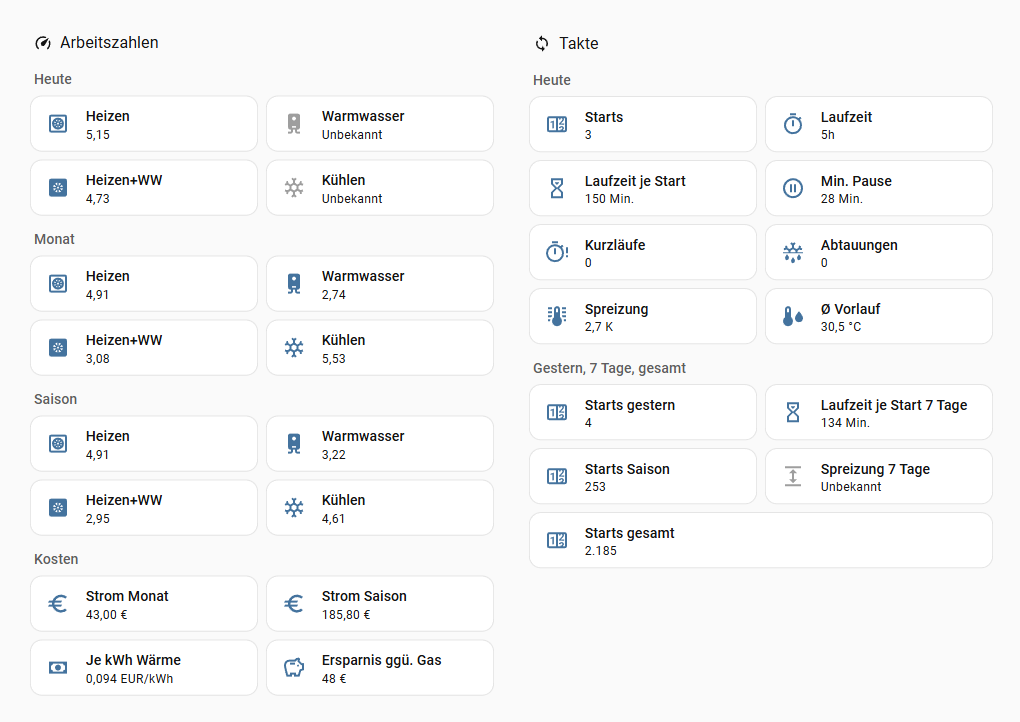
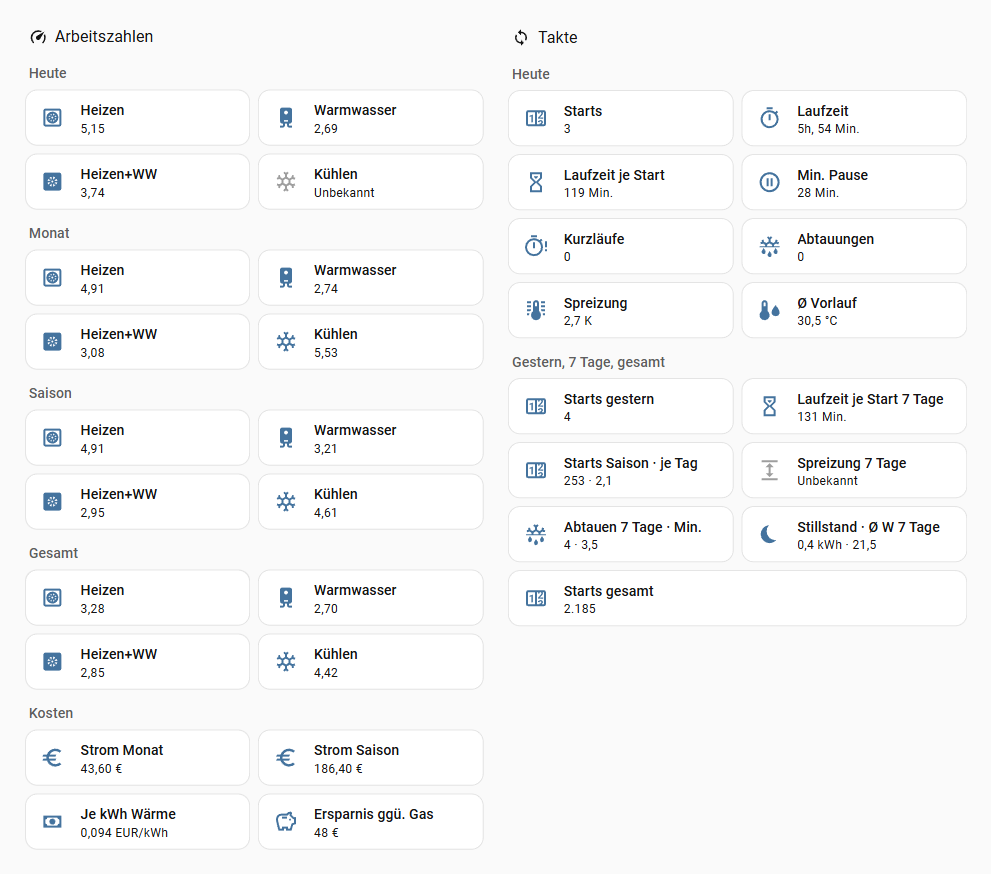
README: Screenshot Arbeitszahlen/Takte erneuert, Monatsdiagramm mit Stillstand

diff --git a/README.en.md b/README.en.md
@@ -506,11 +506,13 @@ The entity IDs depend on the name of the entry (here the default "Wärmepumpe") 
 
 ### Statistics card: heat and electricity per month
 
-The [report](#report) gives a performance factor per month. A statistics card shows heat and electricity per month:
+The [report](#report) gives a performance factor per month. A statistics card shows heat and electricity per month, standby as a bar of its own. The months before the setup come from the long-term statistics of the meters:
+
+<img src="https://raw.githubusercontent.com/waermewacht/integration/main/assets/screenshots/monatsdiagramm.png" alt="Bar chart of heat and electricity per month for heating and hot water, plus standby (German UI)" width="480">
 
 ```yaml
 type: statistics-graph
-title: Heating per month
+title: Heat and electricity per month
 chart_type: bar
 period: month
 stat_types:
@@ -518,9 +520,15 @@ stat_types:
 days_to_show: 365
 entities:
   - entity: sensor.warmepumpe_heat_heating
-    name: Heat
+    name: Heat heating
+  - entity: sensor.warmepumpe_heat_hot_water
+    name: Heat hot water
   - entity: sensor.warmepumpe_electricity_heating
-    name: Electricity
+    name: Electricity heating
+  - entity: sensor.warmepumpe_electricity_hot_water
+    name: Electricity hot water
+  - entity: sensor.warmepumpe_standby_electricity
+    name: Standby
 ```
 
 ### Performance curve and energy signature

diff --git a/README.md b/README.md
@@ -506,11 +506,13 @@ Die Entity-IDs hängen vom Namen des Eintrags ab (hier die Vorgabe „Wärmepump
 
 ### Statistik-Karte: Wärme und Strom je Monat
 
-Eine Arbeitszahl je Monat liefert der [Bericht](#bericht). Wärme und Strom je Monat zeigt eine Statistik-Karte:
+Eine Arbeitszahl je Monat liefert der [Bericht](#bericht). Wärme und Strom je Monat zeigt eine Statistik-Karte, der Stillstand als eigener Balken. Die Monate vor der Einrichtung stammen aus der Langzeitstatistik der Zähler:
+
+<img src="https://raw.githubusercontent.com/waermewacht/integration/main/assets/screenshots/monatsdiagramm.png" alt="Balkendiagramm Wärme und Strom je Monat für Heizen und Warmwasser, dazu der Stillstand" width="480">
 
 ```yaml
 type: statistics-graph
-title: Heizen je Monat
+title: Wärme und Strom je Monat
 chart_type: bar
 period: month
 stat_types:
@@ -518,9 +520,15 @@ stat_types:
 days_to_show: 365
 entities:
   - entity: sensor.warmepumpe_warme_heizen
-    name: Wärme
+    name: Wärme Heizen
+  - entity: sensor.warmepumpe_warme_warmwasser
+    name: Wärme Warmwasser
   - entity: sensor.warmepumpe_strom_heizen
-    name: Strom
+    name: Strom Heizen
+  - entity: sensor.warmepumpe_strom_warmwasser
+    name: Strom Warmwasser
+  - entity: sensor.warmepumpe_strom_stillstand
+    name: Stillstand
 ```
 
 ### AZ-Kennlinie und Energiesignatur
